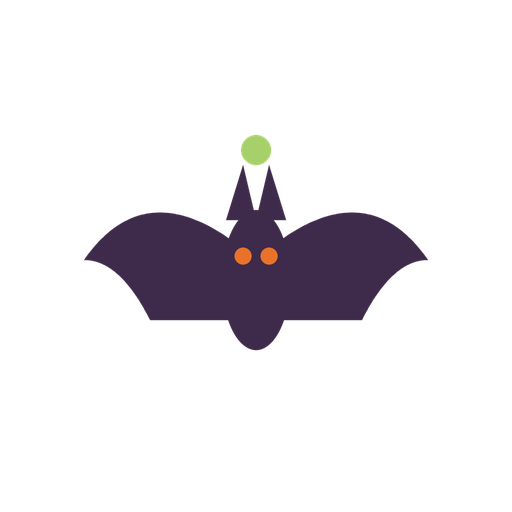
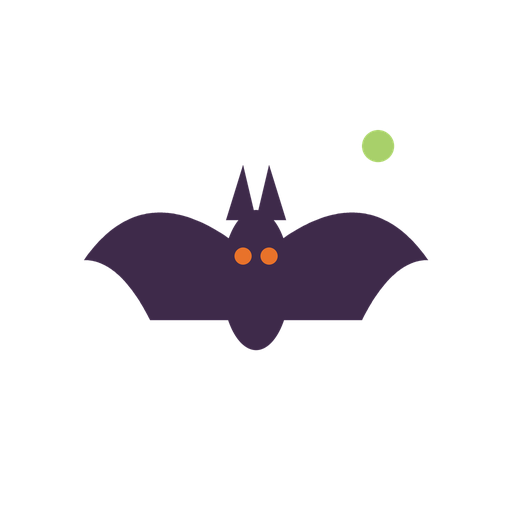
图标绿点移到右上角，避免像帽子球

Changed region(s): [[0.6875, 0.25, 0.7812, 0.3438], [0.4688, 0.25, 0.5312, 0.3438]]

diff --git a/scripts/generate-icon-candidates.py b/scripts/generate-icon-candidates.py
@@ -153,7 +153,7 @@ def cand_bat():
     # eyes
     disc(d, (486, 512), 17, PUMPKIN)
     disc(d, (538, 512), 17, PUMPKIN)
-    disc(d, (512, 300), 30, SLIME)
+    disc(d, (756, 292), 32, SLIME)
 
     return finish(img)
 
